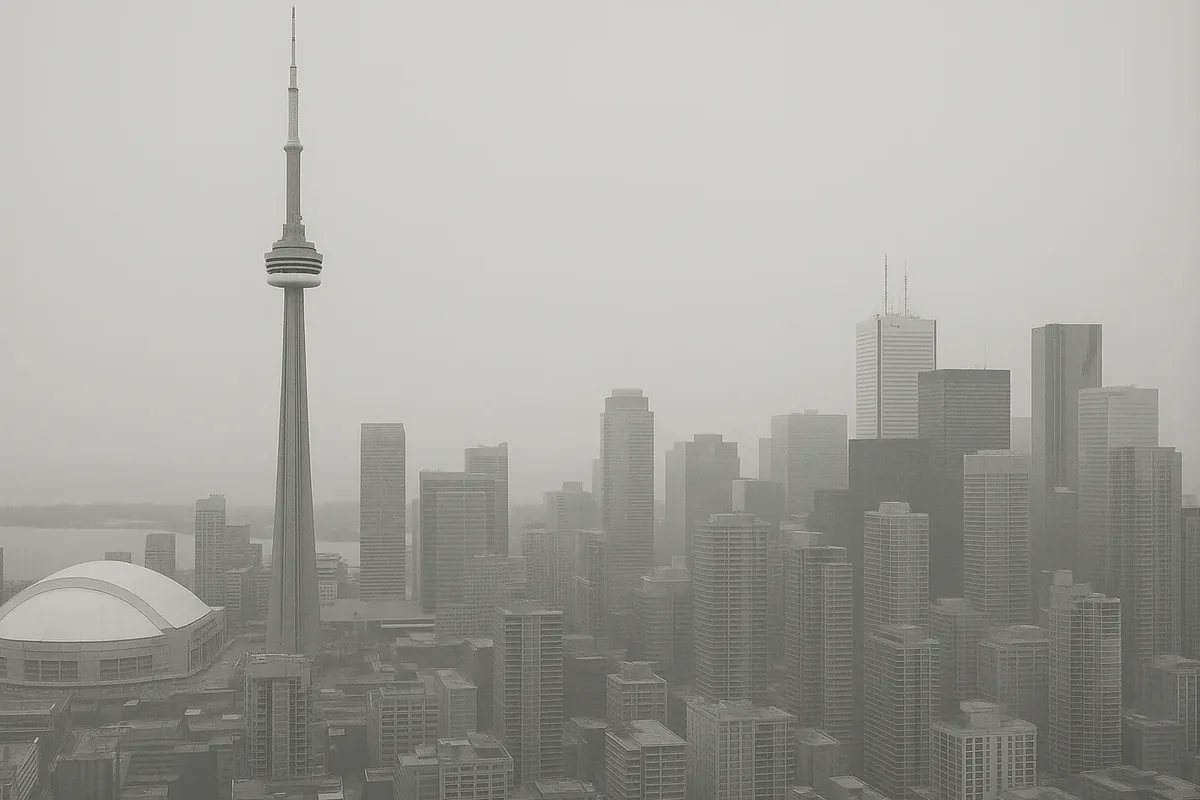
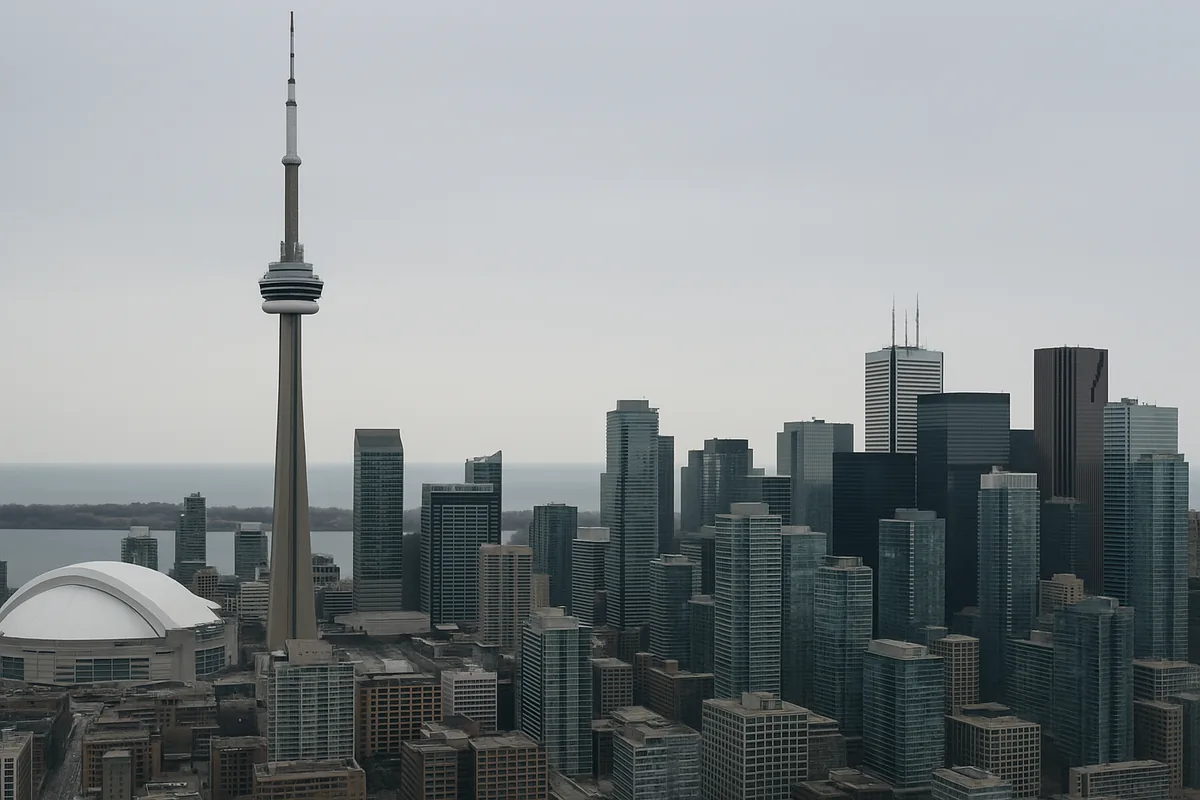
Homepage: oak desk, a painted sash window with fewer bars, bigger glass
The window is now proper joinery in the shader: glazing bars and a meeting
rail, a bevelled sash, a deep white reveal with a projecting sill, and a
moulded architrave, all sized to the window. Its glass is larger on
desktop and starts further right on narrow laptops so the headline clears
it. The desk is the oak trestle slab Berto picked, under a new filename,
with the hero's padding derived from the art's own measurements. The
overcast view is regenerated without mist, and a GPU error now hands the
page back to the CSS wall instead of leaving a blank canvas.

diff --git a/app/site/_components/concrete-wall/concrete-wall.tsx b/app/site/_components/concrete-wall/concrete-wall.tsx
@@ -6,7 +6,7 @@ import { PaperTexture } from "@paper-design/shaders-react";
 import { cn } from "@/lib/utils";
 import { createWallRenderer } from "./renderer";
 import { NEUTRAL_SKY, skyAt, useSiteWeather, wallNow, type Sky } from "./sky";
-import { CITY_VIEWS, DESK_ART, windowRect } from "./scene";
+import { CITY_VIEWS, DESK_ART, WINDOW_GRID, windowRect } from "./scene";
 
 /**
  * A lit plaster wall behind the hero, after the backdrop on vgpu.sh, and on
@@ -41,7 +41,7 @@ export function ConcreteWall({ className, scene = false }: { className?: string;
   const [supported, setSupported] = useState(false);
   const [live, setLive] = useState(false);
   // The wall's shape, for placing the CSS window where the shader would.
-  const [aspect, setAspect] = useState(16 / 9);
+  const [shape, setShape] = useState({ aspect: 16 / 9, width: 1440 });
 
   // The sky, recomputed every half minute so the light keeps up with the clock.
   // The renderer reads it through a ref each frame. It starts neutral so the
@@ -69,7 +69,7 @@ export function ConcreteWall({ className, scene = false }: { className?: string;
     if (!scene || !root) return;
     const observer = new ResizeObserver(([entry]) => {
       const { width, height } = entry.contentRect;
-      if (width > 0 && height > 0) setAspect(width / height);
+      if (width > 0 && height > 0) setShape({ aspect: width / height, width });
     });
     observer.observe(root);
     return () => observer.disconnect();
@@ -104,6 +104,11 @@ export function ConcreteWall({ className, scene = false }: { className?: string;
       reducedMotion: () => motion.matches,
       sky: () => skyRef.current,
       scene,
+      onFail: (error) => {
+        console.warn("Concrete wall stopped", error);
+        setLive(false);
+        setSupported(false);
+      },
     });
     renderer.ready
       .then(() => setLive(true))
@@ -122,12 +127,12 @@ export function ConcreteWall({ className, scene = false }: { className?: string;
     };
   }, [supported, scene]);
 
-  const rect = windowRect(aspect);
+  const rect = windowRect(shape.aspect, shape.width);
   const overcast = sky.cloudCover * (1 - sky.night);
   // How much light reaches the desk: less after dark and under a heavy sky,
   // and the colour drains a little at night.
   const deskStyle = {
-    bottom: "calc(var(--desk-w) * -0.1675)",
+    bottom: "calc(var(--desk-w) * var(--desk-ratio) * var(--desk-sink) * -1)",
     "--desk-light": (1 - sky.night * 0.45 - overcast * 0.12).toFixed(3),
     "--desk-tone": (1 - sky.night * 0.25).toFixed(3),
   } as CSSProperties;
@@ -197,7 +202,24 @@ export function ConcreteWall({ className, scene = false }: { className?: string;
             className="object-cover transition-opacity duration-1000"
             style={{ opacity: sky.night }}
           />
-          <div className="absolute inset-y-0 left-1/2 w-[2.5%] -translate-x-1/2 bg-[var(--frame)]" />
+          {/* Glazing bars and the meeting rail, as the shader draws them. */}
+          {Array.from({ length: WINDOW_GRID.cols - 1 }, (_, i) => (
+            <div
+              key={`col-${i}`}
+              className="absolute inset-y-0 w-[2%] -translate-x-1/2 bg-[var(--frame)]"
+              style={{ left: `${((i + 1) / WINDOW_GRID.cols) * 100}%` }}
+            />
+          ))}
+          {Array.from({ length: WINDOW_GRID.rowsPerSash * 2 - 1 }, (_, i) => (
+            <div
+              key={`row-${i}`}
+              className="absolute inset-x-0 -translate-y-1/2 bg-[var(--frame)]"
+              style={{
+                top: `${((i + 1) / (WINDOW_GRID.rowsPerSash * 2)) * 100}%`,
+                height: i + 1 === WINDOW_GRID.rowsPerSash ? "4%" : "2%",
+              }}
+            />
+          ))}
           {/* The reveal's shadow on the glass, so it reads as set into the wall. */}
           <div className="absolute inset-0 shadow-[inset_0_0_0_1px_rgba(0,0,0,0.25),inset_0_22px_30px_-12px_rgba(0,0,0,0.5),inset_14px_0_24px_-14px_rgba(0,0,0,0.35)]" />
         </div>

diff --git a/app/site/_components/concrete-wall/scene.ts b/app/site/_components/concrete-wall/scene.ts
@@ -11,19 +11,30 @@ export type WindowRect = { x: number; y: number; hw: number; hh: number };
 const lerp = (a: number, b: number, t: number) => a + (b - a) * t;
 
 /**
- * Where the window goes for a wall of this aspect ratio (width / height).
- * Wide screens get a tall window on the upper right, above the money tree,
- * clear of the headline in the bottom left. Phones get a smaller one up and
- * to the right, so it still shows above the desk.
+ * The glazing: how many panes across, and how many rows in each sash (the
+ * meeting rail between the sashes is always there). The shader has the same
+ * numbers as constants; keep them together.
  */
-export function windowRect(aspect: number): WindowRect {
+export const WINDOW_GRID = { cols: 2, rowsPerSash: 1 } as const;
+
+/**
+ * Where the window's glass goes for a wall of this aspect ratio (width /
+ * height) and width in pixels. Wide screens get a big window on the upper
+ * right, behind the desk and the money tree, clear of the headline in the
+ * bottom left. Phones get a smaller one beside the headshot, above the desk.
+ *
+ * The casing adds about 0.086 of the height around the glass (half that on
+ * phones), so the top keeps that clear of the nav (64px). On narrow laptops
+ * the glass starts further right so the headline's first line still fits
+ * beside it.
+ */
+export function windowRect(aspect: number, width = 1440): WindowRect {
   const t = Math.min(1, Math.max(0, (aspect - 0.7) / (1.3 - 0.7)));
-  // Edges first, so the top always clears the nav that overlaps the wall
-  // (64px: under 11% of even a short landscape hero, under 7% of a phone's).
-  const left = lerp(0.50, 0.675, t);
-  const right = lerp(0.92, 0.925, t);
-  const top = lerp(0.09, 0.14, t);
-  const bottom = lerp(0.28, 0.62, t);
+  const wide = Math.min(1, Math.max(0, (width - 1024) / (1440 - 1024)));
+  const left = lerp(0.50, lerp(0.72, 0.655, wide), t);
+  const right = lerp(0.88, 0.935, t);
+  const top = lerp(0.16, 0.16, t);
+  const bottom = lerp(0.31, 0.70, t);
   return {
     x: (left + right) / 2,
     y: (top + bottom) / 2,
@@ -47,5 +58,31 @@ export const CITY_VIEWS = [
 /** Pixel size of every city view; the texture is allocated to match. */
 export const CITY_SIZE = [1200, 800] as const;
 
-/** The desk with the money tree, cut out on transparency. */
-export const DESK_ART = { src: "/site-art/desk-money-tree.webp", width: 1536, height: 1024 } as const;
+/**
+ * The desk with the money tree, cut out on transparency. `clear` is how far
+ * down the image (0 top, 1 bottom) the highest thing on the desk other than
+ * the tree reaches, so the page can keep its headline above it; `sink` is
+ * how much of the image's height hangs below the hero, so only the top of
+ * the legs shows. Regenerate with scripts/generate-desk-art.mjs and remeasure.
+ */
+export const DESK_ART = {
+  src: "/site-art/desk-oak-money-tree.webp",
+  width: 1310,
+  height: 952,
+  clear: 0.273,
+  sink: 0.22,
+} as const;
+
+/** CSS custom properties the hero and the wall share to lay the desk out. */
+export function deskLayoutVars() {
+  const ratio = DESK_ART.height / DESK_ART.width;
+  return {
+    // Image height as a multiple of its width.
+    "--desk-ratio": ratio.toFixed(4),
+    // Multiples of the image height, measured up from the hero's bottom edge:
+    // where the tree's top is, and where the desk (with what's on it) is.
+    "--desk-tree-clear": (1 - DESK_ART.sink + 0.03).toFixed(3),
+    "--desk-top-clear": (1 - DESK_ART.sink - DESK_ART.clear + 0.03).toFixed(3),
+    "--desk-sink": DESK_ART.sink.toFixed(3),
+  } as Record<string, string>;
+}

diff --git a/app/site/page.tsx b/app/site/page.tsx
@@ -1,3 +1,4 @@
+import type { CSSProperties } from "react";
 import Image from "next/image";
 import { ArrowRightIcon, ArrowUpRightIcon, SparklesIcon } from "lucide-react";
 import { ASK_AI_HASH } from "@/lib/public-site";
@@ -8,6 +9,7 @@ import { AskAiButton } from "./_components/ask-ai";
 import { RevealOnView } from "./_components/reveal-on-view";
 import { AnimatedHeading } from "./_components/animated-heading";
 import { ConcreteWall } from "./_components/concrete-wall/concrete-wall";
+import { deskLayoutVars } from "./_components/concrete-wall/scene";
 import { WallClock } from "./_components/concrete-wall/wall-clock";
 import { MomentsCarousel } from "./_components/moments-carousel";
 import { MOMENTS } from "@/lib/site-moments";
@@ -93,13 +95,16 @@ export default async function SiteHomePage() {
           desk's width; the bottom padding keeps the text above the desk top on
           wide screens and above the whole tree on phones, where the desk sits
           under the text instead of beside it. */}
-      <div className="relative isolate -mt-16 [--desk-w:110vw] sm:[--desk-w:85vw] lg:[--desk-w:min(60vw,80vh)]">
+      <div
+        className="relative isolate -mt-16 [--desk-w:110vw] sm:[--desk-w:85vw] lg:[--desk-w:min(60vw,80vh)]"
+        style={deskLayoutVars() as CSSProperties}
+      >
         <ConcreteWall scene />
         <RevealOnView
           as="section"
           intensity="hero"
           staggerChildren
-          className="flex min-h-svh flex-col pt-24 pb-[calc(var(--desk-w)*0.62)] lg:pb-[calc(var(--desk-w)*0.28)]"
+          className="flex min-h-svh flex-col pt-24 pb-[calc(var(--desk-w)*var(--desk-ratio)*var(--desk-tree-clear))] lg:pb-[calc(var(--desk-w)*var(--desk-ratio)*var(--desk-top-clear))]"
         >
           <div className="mt-auto pt-16 lg:max-w-[68%]">
             <Image
@@ -112,7 +117,7 @@ export default async function SiteHomePage() {
             />
             <WallClock className="mb-5" />
             <AnimatedHeading
-              className={`${display} text-5xl leading-[1.0] tracking-[-0.045em] sm:text-7xl lg:text-[clamp(3.5rem,4.4vw,6rem)]`}
+              className={`${display} text-5xl leading-[1.0] tracking-[-0.045em] sm:text-7xl lg:text-[clamp(2.6rem,3.7vw,6rem)]`}
               lines={[
                 "I lead go-to-market for Aucctus,",
                 "a fast-scaling AI startup.",

diff --git a/app/site/_components/concrete-wall/renderer.ts b/app/site/_components/concrete-wall/renderer.ts
@@ -14,6 +14,12 @@ export interface WallRendererOptions {
   readonly sky: () => Sky;
   /** Cut the window into the wall and load the view through it. */
   readonly scene: boolean;
+  /**
+   * Called once if the GPU reports an error after `ready` (a pipeline that
+   * fails to compile, a lost device). The renderer has already torn itself
+   * down; the component should go back to the CSS wall.
+   */
+  readonly onFail?: (error: unknown) => void;
 }
 
 /**
@@ -47,6 +53,14 @@ export function createWallRenderer(
       return;
     }
     gpu = context;
+    // Pipeline and device errors arrive asynchronously, not as throws from
+    // the frame loop, so without this a broken shader would leave a blank
+    // canvas over the CSS wall for ever.
+    context.onError((error) => {
+      if (disposed) return;
+      dispose();
+      options.onFail?.(error);
+    });
     const output = surface(context, canvas, { dpr: [1, 1.5] });
 
     // Inner pages never show the window, so they get a token texture rather
@@ -103,7 +117,7 @@ export function createWallRenderer(
         ];
 
         const [width, height] = output.size;
-        const window = options.scene ? windowRect(width / Math.max(1, height)) : null;
+        const window = options.scene ? windowRect(width / Math.max(1, height), width / output.dpr) : null;
 
         wall.set({
           params: {

diff --git a/WORKLOG.md b/WORKLOG.md
@@ -4,6 +4,49 @@ A personal guide with memory. Built with Vercel Eve + Next.js + Neon Postgres.
 
 ---
 
+## 2026-10-11 — Homepage desk scene, round two: oak desk, a proper sash window
+
+Berto on the first pass: *"not bad … I also don't like what the window looks like. The
+window's not really nice enough … I wanted it to look premium."* He sent a library desk
+by a sash window and a white corner desk as references. His calls: **desk B** (oak
+trestle slab with a brass lamp and leather notebook, over a walnut writing desk with
+drawers), and **"make the window a little bigger, and less cross hatching."**
+
+- **Window rebuilt in the shader** as painted joinery, from the glass out: glazing bars
+  (`PANE_COLS` × `PANE_ROWS` a sash, now 2 × 1, so one centre bar) and a heavier meeting
+  rail that shades the lower sash; the sash frame with a bevel; a deep **white-painted
+  reveal** (sill lit by the sky, head in shadow, jambs between, occluded corner); a
+  **sill lip** stepping out past the casing with a shadow down the apron and wall; and a
+  **moulded architrave** (`moulding()` profile: inner shadow line, bead, field, outer
+  bead). Each pane has its own slight tilt and tint, and a soft rim shadow from the
+  glazing. Joinery widths scale with the window (`joinery`), so a phone's small window
+  doesn't get a casing as deep as its glass. The bar distance was first measured from
+  each pane's *centre* (bars at the quarter lines, 12 panes); fixed to the nearest edge.
+- **Bigger glass on desktop** (`windowRect`): x 0.655–0.935, y 0.16–0.70 of the hero,
+  casing clear of the nav. The glass's left edge now also depends on the viewport width
+  (0.72 at 1024px → 0.655 at 1440px+) and the lg headline is `clamp(2.6rem, 3.7vw, 6rem)`,
+  so the first line always clears the casing (77px spare at 1024×768, measured).
+- **Desk**: `desk-oak-money-tree.webp` (new name, so no cache serves the old slab). The
+  layout numbers now come from the art itself: `DESK_ART.clear` (how far down the image
+  the lamp reaches) and `sink` feed `deskLayoutVars()` → `--desk-ratio`,
+  `--desk-tree-clear`, `--desk-top-clear`, `--desk-sink`, which the hero's padding and
+  the desk's offset read. Swapping the image is one edit plus a remeasure.
+- **Overcast view regenerated** as an edit with "air clear, no mist": the first one was
+  fog. Overcast blend capped at 85% so some colour survives.
+- **Robustness**: `gpu.onError` now tears the renderer down and hands the page back to
+  the CSS wall (`onFail`); before, a shader that failed to compile left a blank canvas
+  over the CSS wall with the window hidden. The CSS fallback draws the same grid from
+  `WINDOW_GRID`.
+
+Verified on :3010 at 1920×1080, 1440×900, 1280×720, 1024×768 and 390×844 (day, night).
+Note for future verification: when the desktop app's browser pane is hidden,
+`document.visibilityState` is "hidden" and the hero's reveal animation never runs, so
+the headline is invisible in screenshots and the compositor can draw stale layers;
+measure the DOM instead, or force the styles. Not done: the candidate images and the
+one-off generation script live only in the session scratchpad.
+
+---
+
 ## 2026-10-11 — Homepage: the drawings come off the wall; a desk, a money tree and a window on Toronto
 
 Berto: *"remove all the drawing on the wall … I still like the stucco-looking wall with
